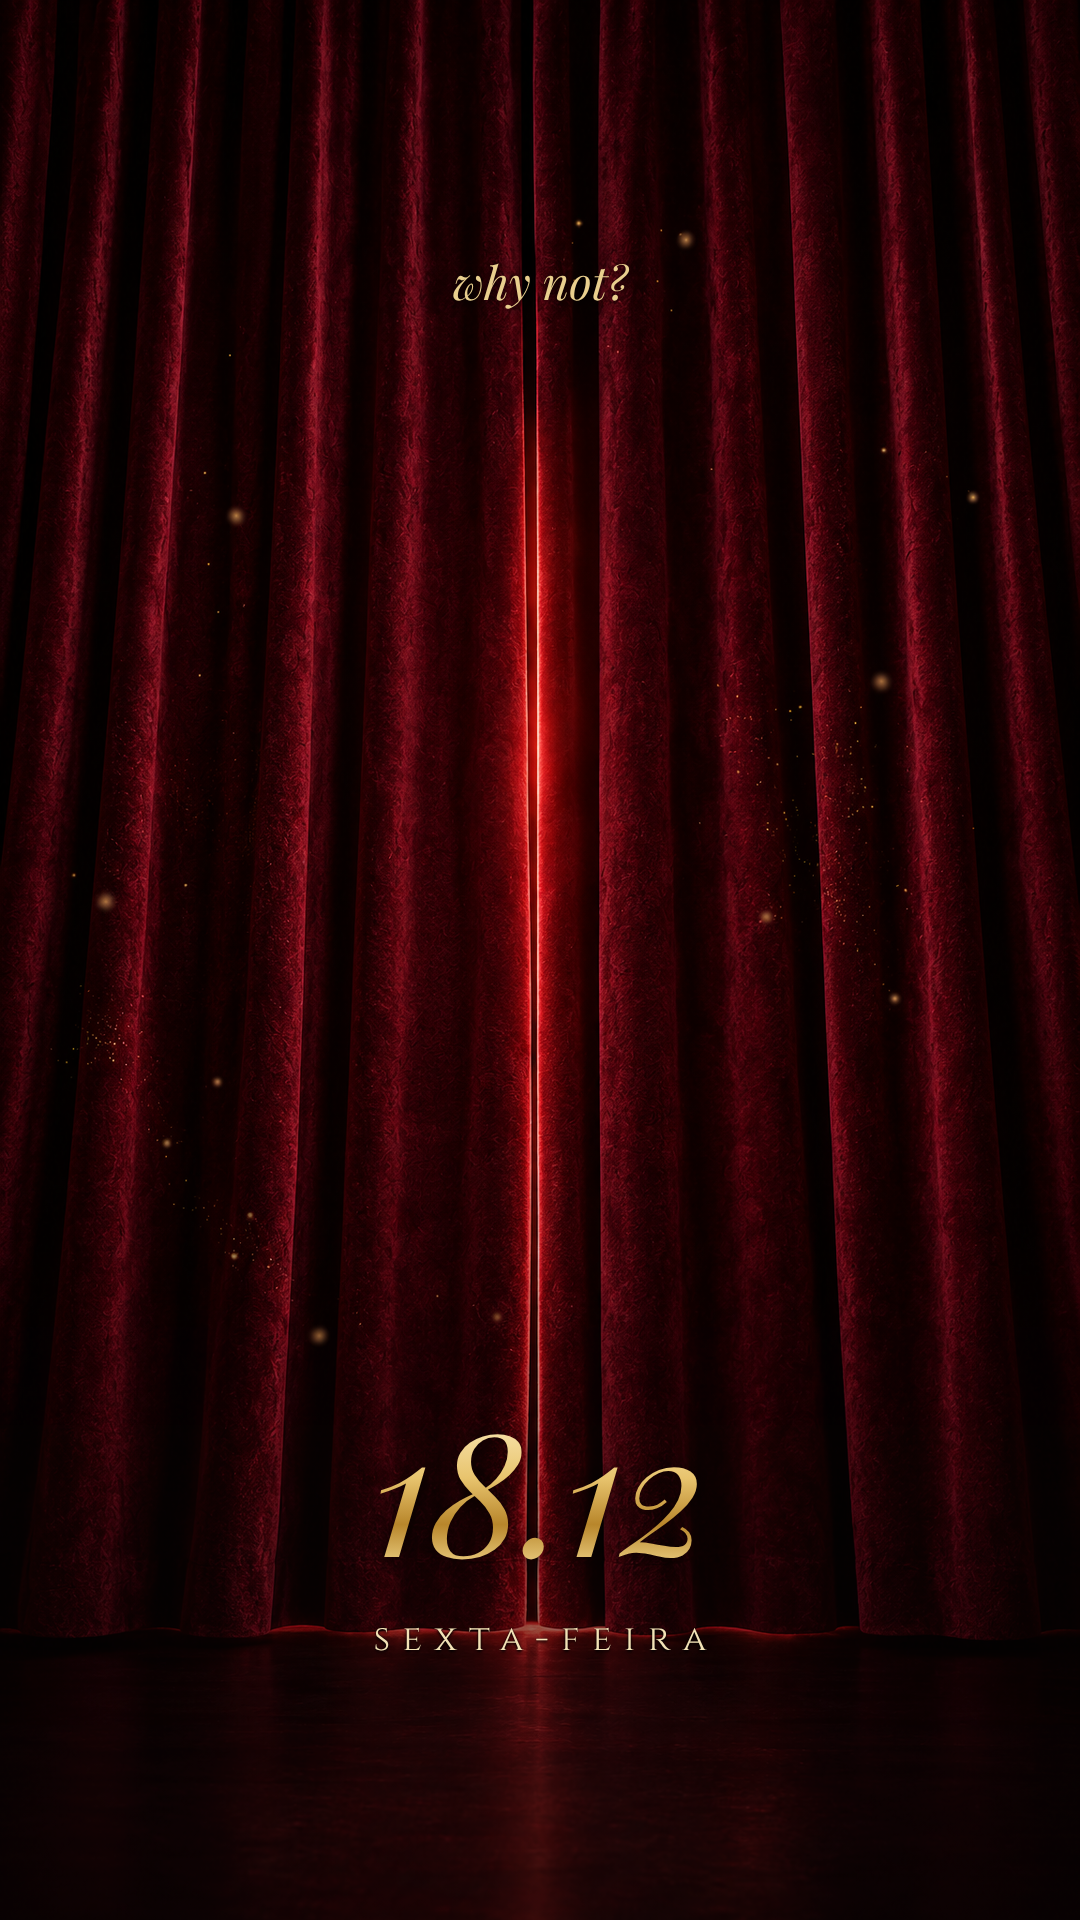
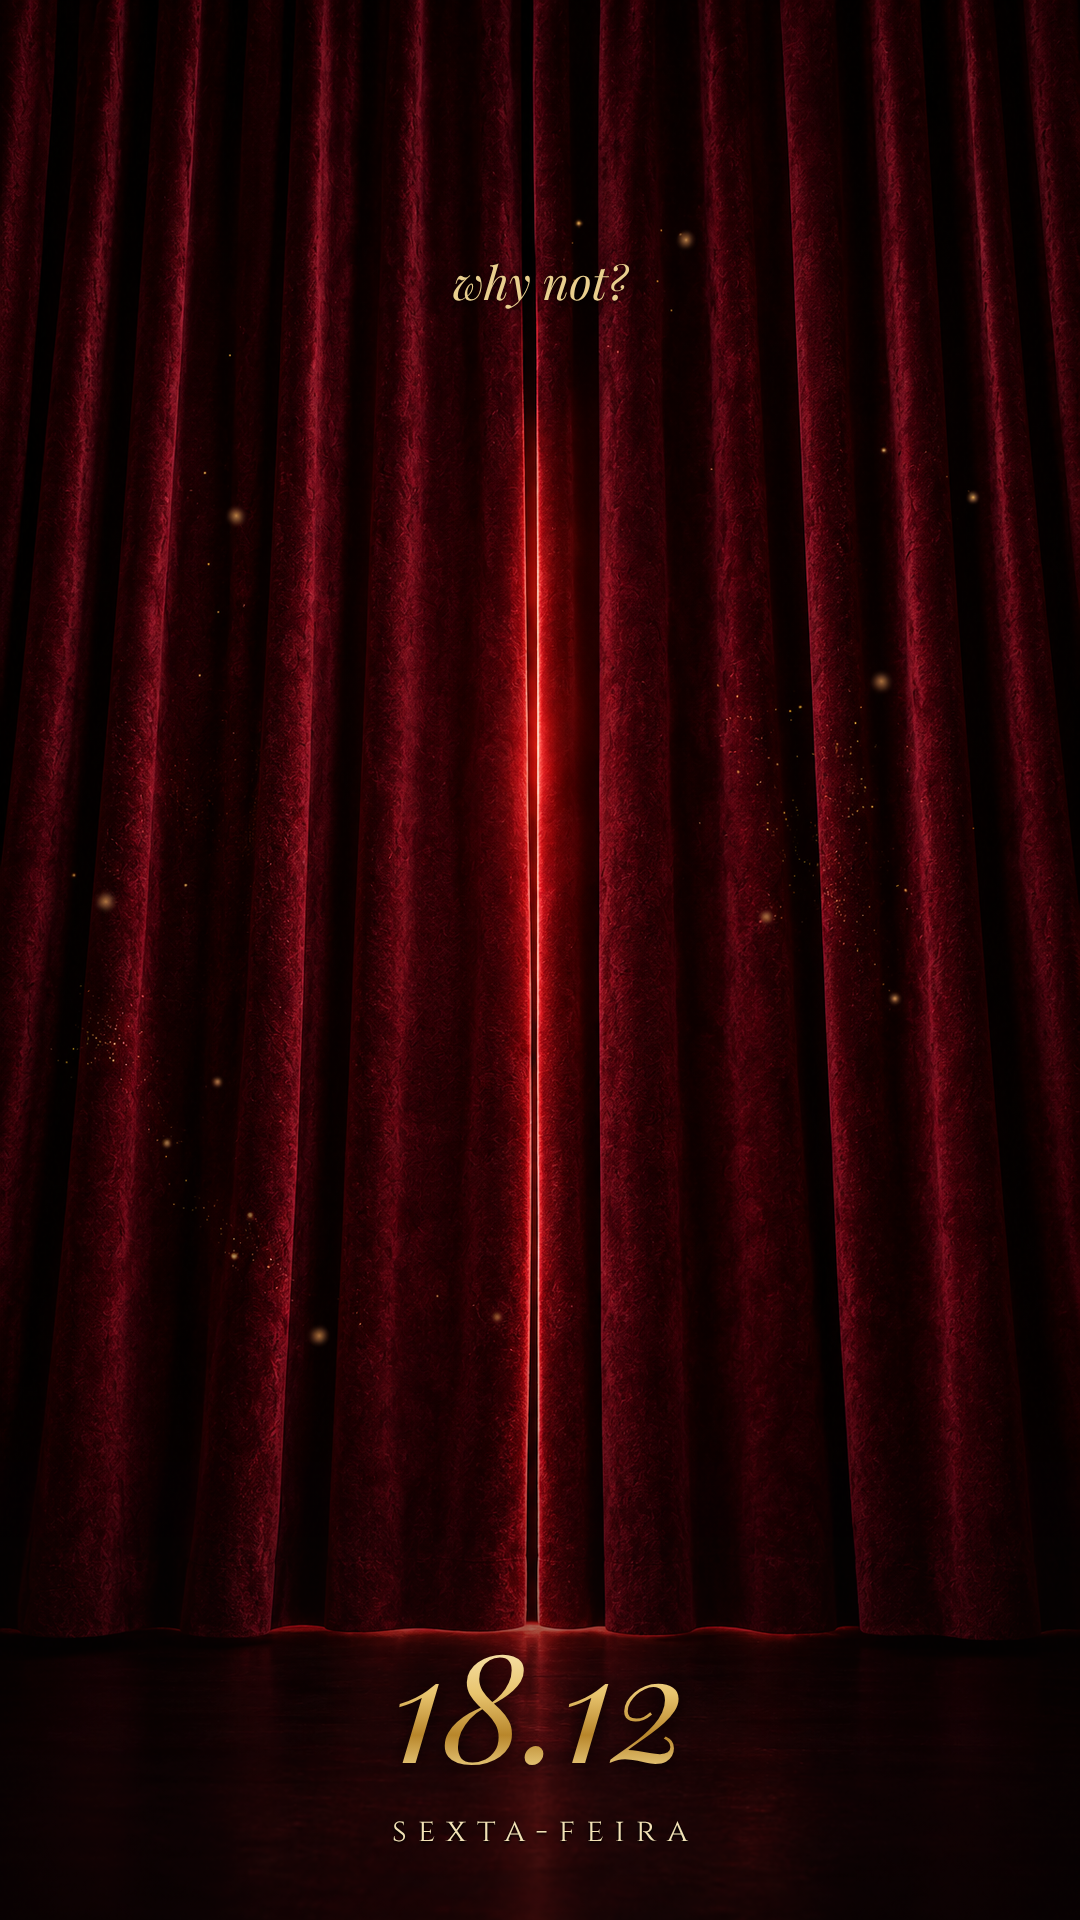
XMAS PARTY: data mais baixa na cortina fechada, entreaberta sem falha
Claude-Session: https://claude.ai/code/session_01EB6L4Lkud6PcZEDw1BW6Na

Changed region(s): [[0.3667, 0.8438, 0.6417, 0.9375], [0.3361, 0.7188, 0.6417, 0.8125], [0.4889, 0.6562, 0.5194, 0.7188]]

diff --git a/identidade/ferramentas/xmas_spoilers.py b/identidade/ferramentas/xmas_spoilers.py
@@ -29,8 +29,8 @@ def peca(nome, fundo, html, escurece):
     bg.alpha_composite(Image.open(P + '_t.png')); bg.convert('RGB').save(P + nome, quality=95); os.remove(P + '_t.png'); print(nome)
 
 peca('story_spoiler_1_cortina-fechada.png', 'cortina_fechada.png', TOPO +
-     "<div class='c ouro' style='top:1400px;font-size:170px'>18.12</div>"
-     "<div class='c cap' style='top:1615px;font-size:36px'>sexta-feira</div>", (150, 1.6))
+     "<div class='c ouro' style='top:1625px;font-size:150px'>18.12</div>"
+     "<div class='c cap' style='top:1810px;font-size:32px'>sexta-feira</div>", (175, 2.2))
 peca('story_spoiler_2_cortina-entreaberta.png', 'cortina_entreaberta.png', TOPO +
      "<div class='c ouro' style='top:1400px;font-size:170px'>18.12</div>"
      "<div class='c cap' style='top:1615px;font-size:36px'>sexta-feira</div>", (150, 1.6))
